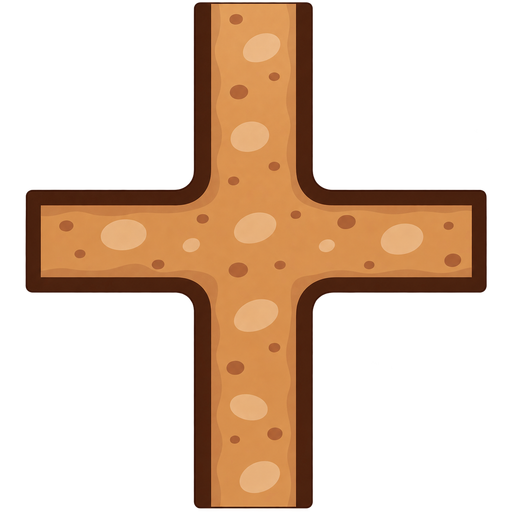
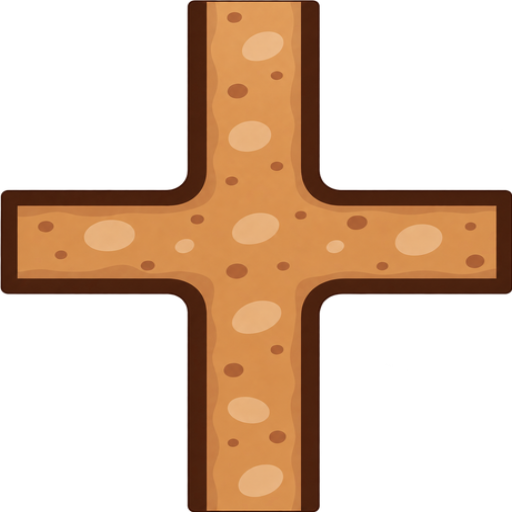
fix: 通路パーツの中心軸ずれと縁の未到達を画像側で厳密に補正
各通路パーツ(road_end/straight/corner/t/cross)のアルファチャンネルを
実測し、開いている方向の軸がタイル中心を正確に通り、かつタイル端
ぴったりまで届くよう画像自体をアフィン変換で焼き直した。特に
road_corner・road_t は道の中心軸が数%〜10%近くずれていて、road_cross
は拡大率が過剰でフチが欠けていた。CSS側のscale/clip-pathによる
後付け補正は不要になったため削除し、画像そのものを正としている。

diff --git a/src/styles/board.css b/src/styles/board.css
@@ -123,9 +123,10 @@
 
 .tile-road-img {
   object-fit: contain;
-  /* 生成した素材は縁ぴったりに描かれていないので、種類ごとに拡大して
-     タイルの端まで届かせる（--road-scale）。角度は回転クラスが --road-rot に入れる。 */
-  transform: rotate(var(--road-rot, 0deg)) scale(var(--road-scale, 1));
+  /* 各素材はアルファ境界を実測し、開いている方向の軸がタイル中心を通って
+     縁ぴったりに届くよう画像自体を補正済み（scripts 実行時のみのビルド作業、
+     ソースはコミット済みの png）。回転は --road-rot だけで足りる。 */
+  transform: rotate(var(--road-rot, 0deg));
 }
 
 .tile-road-img.rot-90 {
@@ -138,29 +139,6 @@
 
 .tile-road-img.rot-270 {
   --road-rot: 270deg;
-}
-
-/* road_end.png は中心から片側だけでなく上下に貫通した棒として描かれてしまったので、
-   下半分をクリップしてから拡大し、行き止まりが逆側にも伸びて見えるのを防ぐ。 */
-.tile-road-img.piece-end {
-  clip-path: inset(0 0 50% 0);
-  --road-scale: 1.28;
-}
-
-.tile-road-img.piece-straight {
-  --road-scale: 1.02;
-}
-
-.tile-road-img.piece-corner {
-  --road-scale: 1.22;
-}
-
-.tile-road-img.piece-t {
-  --road-scale: 1.32;
-}
-
-.tile-road-img.piece-cross {
-  --road-scale: 1.11;
 }
 
 .tile-mark {
